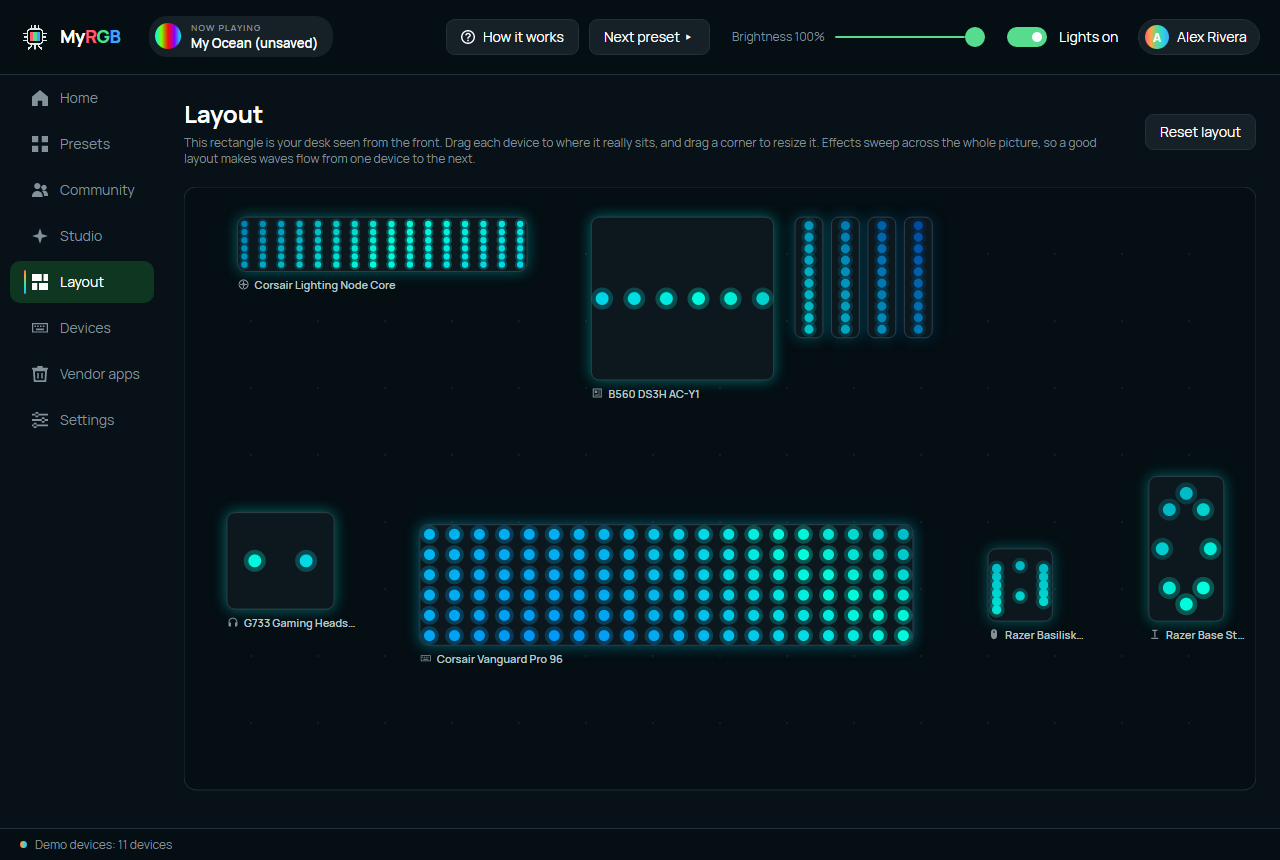
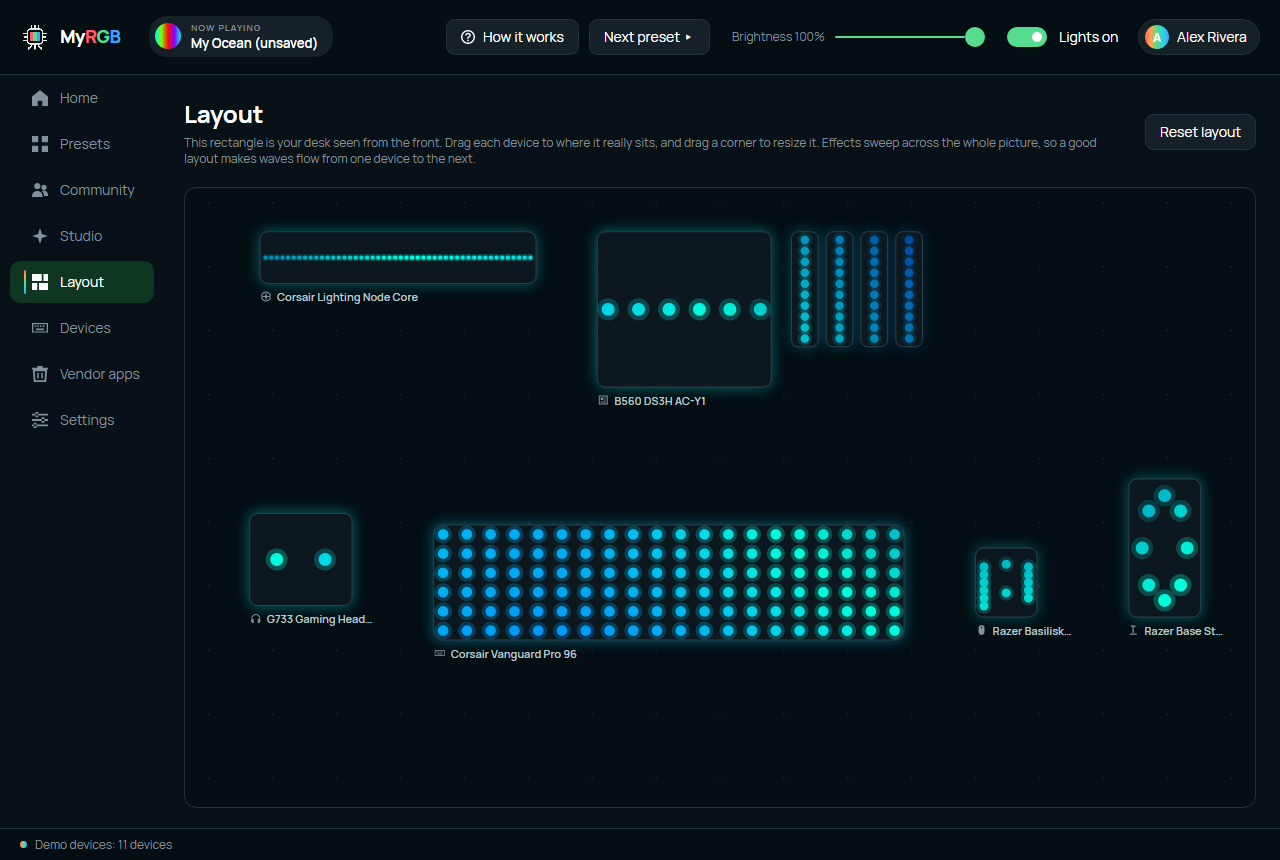
Name RAM by DIMM slot and fix how LEDs sit in their boxes
RAM sticks now say which slot they're in, "(DIMM A1)", read from the
SMBus address OpenRGB reports for Corsair Vengeance controllers. Sticks
from other makers keep the "(stick n)" numbering.

A device whose LEDs form one line now runs it along the long side of its
box, in the effects and the preview alike: RAM rows stand upright and a
board's stacked single-LED zones lie flat. LED strips are sized by their
spacing instead of coming out as specks.

The preview stage fills its space instead of scrolling. The Studio opens
on the preset that's playing when you go to it from the menu, and the
top bar shows the preset restored at startup instead of "None".

diff --git a/src/MyRGB.App/Controls/LedCanvas.cs b/src/MyRGB.App/Controls/LedCanvas.cs
@@ -24,7 +24,7 @@ public sealed class LedCanvas : Control
     public static readonly StyledProperty<bool> AllowEditingProperty = AvaloniaProperty.Register<LedCanvas, bool>(nameof(AllowEditing));
     public static readonly StyledProperty<string?> HighlightIdProperty = AvaloniaProperty.Register<LedCanvas, string?>(nameof(HighlightId));
 
-    private const double Aspect = 16.0 / 9.0;
+    private const double Aspect = CanvasLayout.Aspect;
     private const double HandleSize = 10;
 
     // Brand colors (branding/Theme.axaml): chrome for the stage, surface for device bodies.
@@ -110,19 +110,17 @@ public sealed class LedCanvas : Control
 
     private void OnFrame(FrameSnapshot snapshot) => _latest = snapshot;
 
-    /// <summary>Asks for a 16:9 box as wide as it's allowed, so the stage has no empty bands.</summary>
-    protected override Size MeasureOverride(Size available)
-    {
-        if (double.IsInfinity(available.Width)) return new Size(0, double.IsInfinity(available.Height) ? 0 : available.Height);
-        return new Size(available.Width, Math.Min(available.Width / Aspect, available.Height));
-    }
-
-    /// <summary>The 16:9 area the canvas occupies inside the control, top-left so it lines up with headings.</summary>
+    /// <summary>
+    /// The 16:9 desk inside the control. The stage behind it fills the whole control, so any spare
+    /// room shows as stage rather than gaps; the margin leaves space for labels under the bottom row.
+    /// </summary>
     private Rect Area()
     {
+        const double Side = 18, Top = 16, Bottom = 30;
         var b = Bounds.Size;
-        double w = Math.Min(b.Width, b.Height * Aspect), h = w / Aspect;
-        return new Rect(0, 0, w, h);
+        double availW = Math.Max(0, b.Width - 2 * Side), availH = Math.Max(0, b.Height - Top - Bottom);
+        double w = Math.Min(availW, availH * Aspect), h = w / Aspect;
+        return new Rect(Side + (availW - w) / 2, Top + (availH - h) / 2, w, h);
     }
 
     private static Rect ToScreen(Rect area, DevicePlacement p) =>
@@ -131,9 +129,9 @@ public sealed class LedCanvas : Control
     public override void Render(DrawingContext ctx)
     {
         var area = Area();
-        ctx.DrawRectangle(Background, StagePen, area, 12, 12);
-        for (int i = 1; i < 16; i++)
-            for (int j = 1; j < 9; j++)
+        ctx.DrawRectangle(Background, StagePen, new Rect(Bounds.Size).Deflate(0.5), 12, 12);
+        for (int i = 0; i <= 16; i++)
+            for (int j = 0; j <= 9; j++)
                 ctx.DrawEllipse(GridDot, null, new Point(area.X + area.Width * i / 16, area.Y + area.Height * j / 9), 1, 1);
 
         var host = Host;
@@ -158,7 +156,9 @@ public sealed class LedCanvas : Control
         {
             var device = frame.Devices[d];
             var colors = frame.Colors[d];
-            var rect = ToScreen(area, host.Layout.GetOrCreate(device));
+            var placement = host.Layout.GetOrCreate(device);
+            var rect = ToScreen(area, placement);
+            bool turned = placement.Turns(device.Leds);
             bool active = device.Id == _dragId || device.Id == _hoverId || device.Id == highlight;
             int count = Math.Min(device.Leds.Count, colors.Length);
             double radius = Math.Min(8, Math.Min(rect.Width, rect.Height) / 4);
@@ -169,15 +169,17 @@ public sealed class LedCanvas : Control
                     new BoxShadows(new BoxShadow { Blur = 22, Spread = 1, Color = glow }));
             ctx.DrawRectangle(BodyBrush, active ? ActivePen : DevicePen, rect, radius, radius);
 
-            // LEDs: size from the device's density so a keyboard and a single-LED logo both read well,
-            // inset so the edge LEDs sit inside the body. Each one is a soft halo under a bright core.
-            double dot = Math.Clamp(Math.Sqrt(rect.Width * rect.Height / Math.Max(1, device.Leds.Count)) * 0.5, 3, 13);
+            // LEDs: sized from their spacing so a keyboard, a fan strip and a single-LED logo all read
+            // well, and inset so the edge LEDs sit inside the body. Each is a soft halo under a bright core.
+            double dot = DotSize(rect, device.Leds);
             double padX = Math.Min(dot * 0.6 + 3, rect.Width / 2), padY = Math.Min(dot * 0.6 + 3, rect.Height / 2);
+            var inner = rect.Deflate(new Thickness(padX, padY));
+            var body = new DevicePlacement(device.Id, inner.X, inner.Y, inner.Width, inner.Height);
             for (int i = 0; i < count; i++)
             {
-                var led = device.Leds[i];
                 var c = colors[i];
-                var center = new Point(rect.X + padX + led.X * (rect.Width - 2 * padX), rect.Y + padY + led.Y * (rect.Height - 2 * padY));
+                var (x, y) = body.Map(device.Leds[i], turned);
+                var center = new Point(x, y);
                 int peak = Math.Max(c.R, Math.Max(c.G, c.B));
                 if (peak < 16)
                 {
@@ -195,6 +197,16 @@ public sealed class LedCanvas : Control
             if (AllowEditing && active)
                 ctx.DrawRectangle(HandleBrush, null, new Rect(rect.Right - HandleSize / 2, rect.Bottom - HandleSize / 2, HandleSize, HandleSize), 3, 3);
         }
+    }
+
+    /// <summary>LED diameter: a line of LEDs is sized by its spacing and thickness, anything else by density.</summary>
+    private static double DotSize(Rect rect, IReadOnlyList<LedInfo> leds)
+    {
+        int n = Math.Max(1, leds.Count);
+        double size = LedShapes.Of(leds) is LedShape.Row or LedShape.Column
+            ? Math.Min(Math.Max(rect.Width, rect.Height) / n * 0.75, Math.Min(rect.Width, rect.Height) * 0.5)
+            : Math.Sqrt(rect.Width * rect.Height / n) * 0.5;
+        return Math.Clamp(size, 2.5, 13);
     }
 
     /// <summary>The device's mean color, dimmed for use as a glow; null when it's dark.</summary>

diff --git a/tests/MyRGB.Tests/CoreTests.cs b/tests/MyRGB.Tests/CoreTests.cs
@@ -113,6 +113,62 @@ public class CoreTests
         Assert.Equal(BuiltInPresets.All[^1].Id, svc.State.ActivePresetId);
     }
 
+    [Theory]
+    [InlineData("I2C: PawnIO SMBus i801 0, address 0x58", "A1")]
+    [InlineData("I2C: PawnIO SMBus i801 0, address 0x59", "A2")]
+    [InlineData("I2C: PawnIO SMBus i801 0, address 0x5A", "B1")]
+    [InlineData("I2C: PawnIO SMBus i801 0, address 0x5b", "B2")]
+    [InlineData("I2C: SMBus PIIX4, address 0x5F", "D2")]
+    [InlineData("I2C: SMBus PIIX4, address 0x70", null)]
+    [InlineData("HID: \\\\?\\HID#VID_1B1C&PID_0C1A", null)]
+    [InlineData(null, null)]
+    public void Ram_slot_from_smbus_address(string? location, string? slot) =>
+        Assert.Equal(slot, MemorySlots.FromLocation(location));
+
+    [Fact]
+    public void Ram_is_named_by_slot_and_falls_back_to_stick_numbers()
+    {
+        var names = DeviceNames.Unique([new RamStick("a", "B1"), new RamStick("b", "A1"), new RamStick("c", null), new RamStick("d", null)]);
+        Assert.Equal("Vengeance (DIMM B1)", names["a"]);
+        Assert.Equal("Vengeance (DIMM A1)", names["b"]);
+        Assert.Equal("Vengeance (stick 3)", names["c"]);
+        Assert.Equal("Vengeance (stick 4)", names["d"]);
+    }
+
+    [Fact]
+    public void A_row_of_leds_stands_up_in_a_tall_box()
+    {
+        LedInfo[] row = [new("0", 0, 0.5f), new("1", 0.5f, 0.5f), new("2", 1, 0.5f)];
+        var tall = new DevicePlacement("ram", 0.5, 0.1, 0.03, 0.2);
+        var wide = new DevicePlacement("strip", 0.1, 0.1, 0.3, 0.05);
+
+        Assert.True(tall.Turns(row));
+        Assert.False(wide.Turns(row));
+        // Turned, the row runs top to bottom down the middle of the stick.
+        Assert.Equal((0.5 + 0.015, 0.1), tall.Map(row[0], turned: true));
+        Assert.Equal((0.5 + 0.015, 0.1 + 0.2), tall.Map(row[2], turned: true));
+
+        LedInfo[] column = [new("0", 0.5f, 0), new("1", 0.5f, 1)];
+        Assert.True(wide.Turns(column));
+        // A board's default box is taller than wide in canvas units but wider on screen (16:9).
+        Assert.True(new DevicePlacement("board", 0.38, 0.05, 0.17, 0.27).Turns(column));
+        Assert.False(wide.Turns([new("only", 0.5f, 0.5f)]));
+    }
+
+    private sealed class RamStick(string id, string? slot) : IRgbDevice
+    {
+        public string Id => id;
+        public string Name => "Vengeance";
+        public string Vendor => "Corsair";
+        public DeviceType Type => DeviceType.Memory;
+        public string ProviderId => "fake";
+        public string? HardwareKey => null;
+        public string? Slot => slot;
+        public IReadOnlyList<LedInfo> Leds => [];
+        public IReadOnlyList<ZoneInfo> Zones => [];
+        public ValueTask ApplyAsync(ReadOnlyMemory<Rgb> colors, CancellationToken ct = default) => ValueTask.CompletedTask;
+    }
+
     private sealed class FakeProvider(string id, int priority) : IDeviceProvider
     {
         public string Id => id;

diff --git a/src/MyRGB.Core/Layout/CanvasLayout.cs b/src/MyRGB.Core/Layout/CanvasLayout.cs
@@ -3,7 +3,51 @@ using MyRGB.Core.Devices;
 namespace MyRGB.Core.Layout;
 
 /// <summary>Where a device sits on the shared effect canvas. Canvas coordinates run 0..1 on both axes.</summary>
-public sealed record DevicePlacement(string DeviceId, double X, double Y, double Width, double Height);
+public sealed record DevicePlacement(string DeviceId, double X, double Y, double Width, double Height)
+{
+    /// <summary>
+    /// True when the device's LEDs form one line that runs the other way to its box: a RAM stick
+    /// reports a row but stands upright, a board's single-LED zones stack into a column but the
+    /// board is wide. Such lines are turned to run along the box's long side.
+    /// </summary>
+    public bool Turns(IReadOnlyList<LedInfo> leds)
+    {
+        var shape = LedShapes.Of(leds);
+        // On screen the box is Width wide and Height / Aspect tall (in canvas widths).
+        bool tall = Height / CanvasLayout.Aspect > Width;
+        return shape == LedShape.Row && tall || shape == LedShape.Column && !tall;
+    }
+
+    /// <summary>An LED's position on the canvas.</summary>
+    public (double X, double Y) Map(LedInfo led, bool turned) => turned
+        ? (X + led.Y * Width, Y + led.X * Height)
+        : (X + led.X * Width, Y + led.Y * Height);
+}
+
+public enum LedShape { Point, Row, Column, Area }
+
+public static class LedShapes
+{
+    /// <summary>Whether a device's LEDs sit on one horizontal line, one vertical line, or neither.</summary>
+    public static LedShape Of(IReadOnlyList<LedInfo> leds)
+    {
+        if (leds.Count < 2) return LedShape.Point;
+        float minX = float.MaxValue, maxX = float.MinValue, minY = float.MaxValue, maxY = float.MinValue;
+        foreach (var l in leds)
+        {
+            minX = Math.Min(minX, l.X); maxX = Math.Max(maxX, l.X);
+            minY = Math.Min(minY, l.Y); maxY = Math.Max(maxY, l.Y);
+        }
+        bool flatX = maxX - minX < 0.001f, flatY = maxY - minY < 0.001f;
+        return (flatX, flatY) switch
+        {
+            (true, true) => LedShape.Point,
+            (false, true) => LedShape.Row,
+            (true, false) => LedShape.Column,
+            _ => LedShape.Area,
+        };
+    }
+}
 
 /// <summary>
 /// Maps each device's LEDs onto the canvas. Devices without a saved placement get a sensible
@@ -12,6 +56,9 @@ public sealed record DevicePlacement(string DeviceId, double X, double Y, double
 /// </summary>
 public sealed class CanvasLayout
 {
+    /// <summary>The canvas is drawn 16:9, like a desk seen from the front.</summary>
+    public const double Aspect = 16.0 / 9.0;
+
     private readonly object _gate = new();
     private readonly Dictionary<string, DevicePlacement> _placements = new(StringComparer.OrdinalIgnoreCase);
 

diff --git a/tools/UiSnapshots/Program.cs b/tools/UiSnapshots/Program.cs
@@ -109,14 +109,18 @@ sealed class FakeProvider : IDeviceProvider
             Enumerable.Range(0, 8).Select(i => new LedInfo($"LED {i}", 0.5f + 0.45f * MathF.Cos(i * MathF.Tau / 8), 0.5f + 0.45f * MathF.Sin(i * MathF.Tau / 8))).ToArray(),
             [new("LED Strip", 0, 8)]),
         .. Enumerable.Range(0, 4).Select(i => new FakeDevice("Corsair Vengeance RGB Pro DDR4", "Corsair", DeviceType.Memory,
-            Enumerable.Range(0, 10).Select(k => new LedInfo($"LED {k}", 0.5f, k / 9f)).ToArray(), [new("Stick", 0, 10)], id: $"ram{i}")),
+            // As OpenRGB reports them: one linear zone (a row), one stick per DIMM slot.
+            Enumerable.Range(0, 10).Select(k => new LedInfo($"LED {k}", k / 9f, 0.5f)).ToArray(), [new("Stick", 0, 10)], id: $"ram{i}",
+            slot: MemorySlots.FromLocation($"I2C: PawnIO SMBus i801 0, address 0x{0x58 + i:X2}"))),
         new FakeDevice("Corsair Lighting Node Core", "Corsair", DeviceType.LedStrip,
-            Enumerable.Range(0, 96).Select(i => new LedInfo($"LED {i}", (i % 16) / 15f, (i / 16) / 5f)).ToArray(), [new("Fan Channel 1", 0, 96)])
+            Enumerable.Range(0, 48).Select(i => new LedInfo($"LED {i}", i / 47f, 0.5f)).ToArray(), [new("Fan Channel 1", 0, 48)])
         {
-            ResizableZones = [new("Fan Channel 1", 96, 0, 204)],
+            ResizableZones = [new("Fan Channel 1", 48, 0, 204)],
         },
+        // Six single-LED zones, which OpenRGB's layout stacks into a column.
         new FakeDevice("B560 DS3H AC-Y1", "Gigabyte", DeviceType.Motherboard,
-            Enumerable.Range(0, 6).Select(i => new LedInfo($"LED {i}", i / 5f, 0.5f)).ToArray(), [new("Headers", 0, 6)]),
+            Enumerable.Range(0, 6).Select(i => new LedInfo($"LED {i}", 0.5f, i / 5f)).ToArray(),
+            Enumerable.Range(0, 6).Select(i => new ZoneInfo($"Zone {i + 1}", i, 1)).ToArray()),
     ]);
 
     private static LedInfo[] Grid(int w, int h) =>
@@ -127,8 +131,9 @@ sealed class FakeProvider : IDeviceProvider
 
 sealed class FakeDevice(
     string name, string vendor, DeviceType type, IReadOnlyList<LedInfo> leds, IReadOnlyList<ZoneInfo> zones,
-    string provider = "openrgb", string? hardwareKey = null, string? id = null) : IResizableDevice
+    string provider = "openrgb", string? hardwareKey = null, string? id = null, string? slot = null) : IResizableDevice
 {
+    public string? Slot => slot;
     public IReadOnlyList<ResizableZone> ResizableZones { get; init; } = [];
     public string Id => $"fake:{id ?? name}";
     public string Name => name;

diff --git a/src/MyRGB.Core/Devices/MemorySlots.cs b/src/MyRGB.Core/Devices/MemorySlots.cs
@@ -1,0 +1,26 @@
+using System.Globalization;
+using System.Text.RegularExpressions;
+
+namespace MyRGB.Core.Devices;
+
+/// <summary>Works out which DIMM slot a RAM stick's lighting controller sits in.</summary>
+public static partial class MemorySlots
+{
+    /// <summary>
+    /// The slot for an SMBus location such as "I2C: PawnIO SMBus i801 0, address 0x5A", or null.
+    /// Corsair Vengeance RGB controllers answer at 0x58 plus the slot's index, the same order as the
+    /// sticks' SPD chips (0x50 up): channel A's two slots, then channel B's, and so on. Boards label
+    /// those A1, A2, B1, B2. Other makers move their controllers around, so they get no slot.
+    /// </summary>
+    public static string? FromLocation(string? location)
+    {
+        if (location is null || AddressPattern().Match(location) is not { Success: true } m) return null;
+        int address = int.Parse(m.Groups[1].Value, NumberStyles.HexNumber, CultureInfo.InvariantCulture);
+        if (address is < 0x58 or > 0x5F) return null;
+        int index = address - 0x58;
+        return $"{(char)('A' + index / 2)}{index % 2 + 1}";
+    }
+
+    [GeneratedRegex(@"address 0x([0-9A-Fa-f]{2})\b")]
+    private static partial Regex AddressPattern();
+}

diff --git a/src/MyRGB.Core/Devices/DeviceNames.cs b/src/MyRGB.Core/Devices/DeviceNames.cs
@@ -3,8 +3,8 @@ namespace MyRGB.Core.Devices;
 public static class DeviceNames
 {
     /// <summary>
-    /// Names to show people. Identical devices get numbered so they can be told apart:
-    /// four RAM sticks become "… (stick 1)" to "… (stick 4)".
+    /// Names to show people. RAM sticks say which slot they're in, "… (DIMM A1)". Other identical
+    /// devices get numbered so they can be told apart: "… (stick 1)" for RAM, "… (2)" for the rest.
     /// </summary>
     public static IReadOnlyDictionary<string, string> Unique(IEnumerable<IRgbDevice> devices)
     {
@@ -16,7 +16,8 @@ public static class DeviceNames
             for (int i = 0; i < items.Count; i++)
             {
                 var d = items[i];
-                result[d.Id] = items.Count == 1 ? d.Name
+                result[d.Id] = d.Type == DeviceType.Memory && d.Slot is { } slot ? $"{d.Name} (DIMM {slot})"
+                    : items.Count == 1 ? d.Name
                     : d.Type == DeviceType.Memory ? $"{d.Name} (stick {i + 1})"
                     : $"{d.Name} ({i + 1})";
             }

diff --git a/src/MyRGB.App/ViewModels/StudioViewModel.cs b/src/MyRGB.App/ViewModels/StudioViewModel.cs
@@ -85,6 +85,9 @@ public sealed partial class StudioViewModel : ObservableObject
     /// <summary>Saving overwrites the preset being edited; false for built-ins and new drafts.</summary>
     public bool IsEditingUserPreset => _editingId is not null;
 
+    /// <summary>False until a preset has been opened for editing.</summary>
+    public bool HasLoaded { get; private set; }
+
     public void SetDevices(IEnumerable<(string Id, string Name)> devices)
     {
         var current = SelectedTarget.DeviceId;
@@ -96,6 +99,7 @@ public sealed partial class StudioViewModel : ObservableObject
     /// <summary>Open a preset for editing. Built-ins are copied; saving makes a new user preset.</summary>
     public void Load(Preset preset)
     {
+        HasLoaded = true;
         _baseEffectId = preset.EffectId;
         _baseSettings = new(preset.Settings, StringComparer.OrdinalIgnoreCase);
         _overrides.Clear();

diff --git a/src/MyRGB.Providers.OpenRgb/OpenRgbDevice.cs b/src/MyRGB.Providers.OpenRgb/OpenRgbDevice.cs
@@ -21,6 +21,7 @@ internal sealed partial class OpenRgbDevice : IResizableDevice
         Type = MapType(data.Type);
         Id = MakeId(data);
         HardwareKey = UsbKey(data.Location);
+        Slot = Type == DeviceType.Memory ? MemorySlots.FromLocation(data.Location) : null;
         (Leds, Zones) = LedLayout.Build(data);
         ResizableZones = data.Zones.Where(z => z.Resizable)
             .Select(z => new ResizableZone(z.Name, (int)z.LedCount, (int)z.LedsMin, (int)z.LedsMax))
@@ -41,6 +42,7 @@ internal sealed partial class OpenRgbDevice : IResizableDevice
     public DeviceType Type { get; }
     public string ProviderId => OpenRgbProvider.ProviderId;
     public string? HardwareKey { get; }
+    public string? Slot { get; }
     public IReadOnlyList<LedInfo> Leds { get; }
     public IReadOnlyList<ZoneInfo> Zones { get; }
     public IReadOnlyList<ResizableZone> ResizableZones { get; }

diff --git a/src/MyRGB.App/ViewModels/MainViewModel.cs b/src/MyRGB.App/ViewModels/MainViewModel.cs
@@ -114,7 +114,11 @@ public sealed partial class MainViewModel : ObservableObject
     partial void OnSelectedTabChanged(int value)
     {
         if (value == CommunityTab && !Community.LoadedOnce) _ = Community.Load();
+        // Opening the Studio from the menu starts from whatever is playing, not an empty editor.
+        if (value == StudioTab && !Studio.HasLoaded)
+            Studio.Load(_host.Engine.ActivePreset is { } p && p.Id != AppHost.DraftPresetId ? p : _host.Presets.BuiltIns[0]);
     }
+
     public ObservableCollection<PresetCardViewModel> Presets { get; } = [];
     public ObservableCollection<PresetCardViewModel> QuickPresets { get; } = [];
     public ObservableCollection<DeviceRowViewModel> Devices { get; } = [];

diff --git a/src/MyRGB.Core/Engine/LightingEngine.cs b/src/MyRGB.Core/Engine/LightingEngine.cs
@@ -231,8 +231,13 @@ public sealed class LightingEngine : IDisposable
                 }
 
                 var p = layout.GetOrCreate(d);
+                bool turned = p.Turns(d.Leds);
                 var points = d.Leds
-                    .Select(l => new LedPoint((float)(p.X + l.X * p.Width), (float)(p.Y + l.Y * p.Height)))
+                    .Select(l =>
+                    {
+                        var (x, y) = p.Map(l, turned);
+                        return new LedPoint((float)x, (float)y);
+                    })
                     .ToArray();
 
                 if (!members.TryGetValue(key, out var m))

diff --git a/tests/MyRGB.Tests/LiveOpenRgbTests.cs b/tests/MyRGB.Tests/LiveOpenRgbTests.cs
@@ -30,7 +30,7 @@ public class LiveOpenRgbTests(ITestOutputHelper output)
         for (uint i = 0; i < count; i++)
         {
             var c = await client.GetControllerAsync(i, ct);
-            output.WriteLine($"{c.Name,-36} mode={c.Modes.ElementAtOrDefault(c.ActiveMode)?.Name,-8} {string.Join(" ", c.Colors.Take(8).Select(x => x.ToHex()))}");
+            output.WriteLine($"{c.Name,-36} mode={c.Modes.ElementAtOrDefault(c.ActiveMode)?.Name,-8} at={c.Location,-30} {string.Join(" ", c.Colors.Take(8).Select(x => x.ToHex()))}");
         }
     }
 }

diff --git a/src/MyRGB.Core/Devices/IRgbDevice.cs b/src/MyRGB.Core/Devices/IRgbDevice.cs
@@ -69,6 +69,9 @@ public interface IRgbDevice
     IReadOnlyList<LedInfo> Leds { get; }
     IReadOnlyList<ZoneInfo> Zones { get; }
 
+    /// <summary>The slot it's plugged into, as printed on the board (a RAM stick's "A1"). Null if unknown.</summary>
+    string? Slot => null;
+
     /// <summary>Push one frame. <paramref name="colors"/> has exactly <see cref="Leds"/>.Count entries.</summary>
     ValueTask ApplyAsync(ReadOnlyMemory<Rgb> colors, CancellationToken ct = default);
 }
